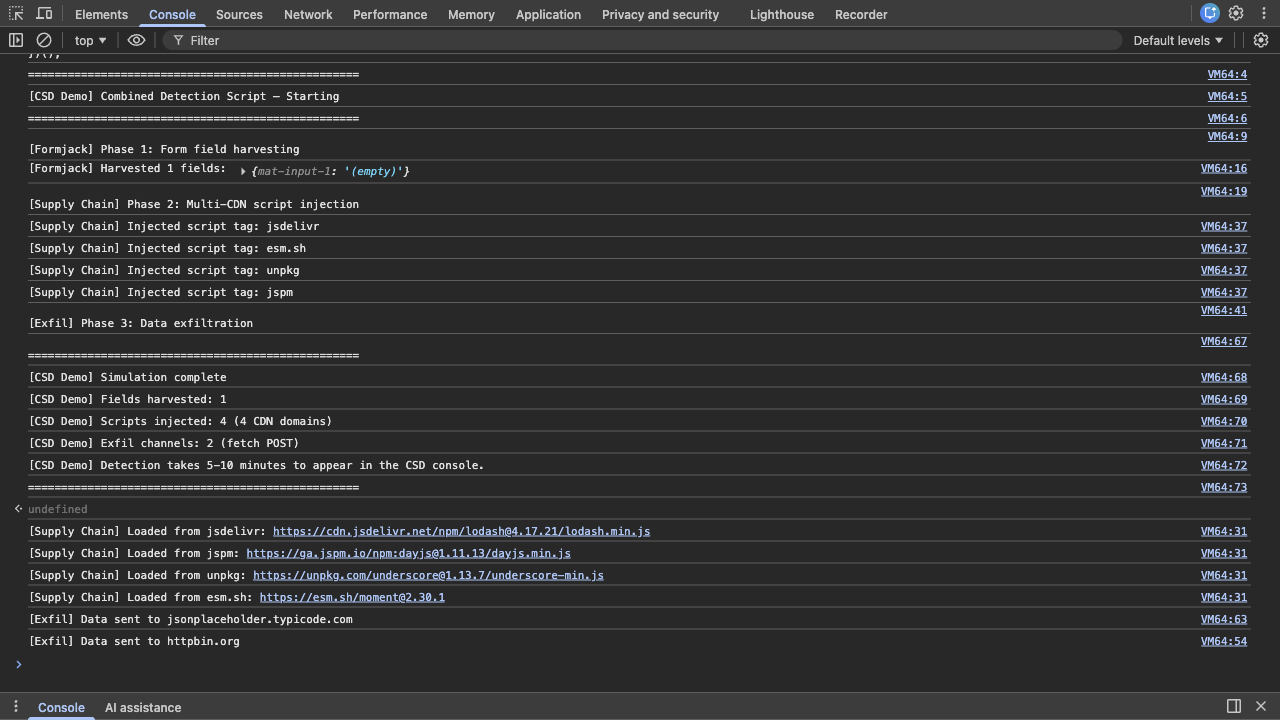
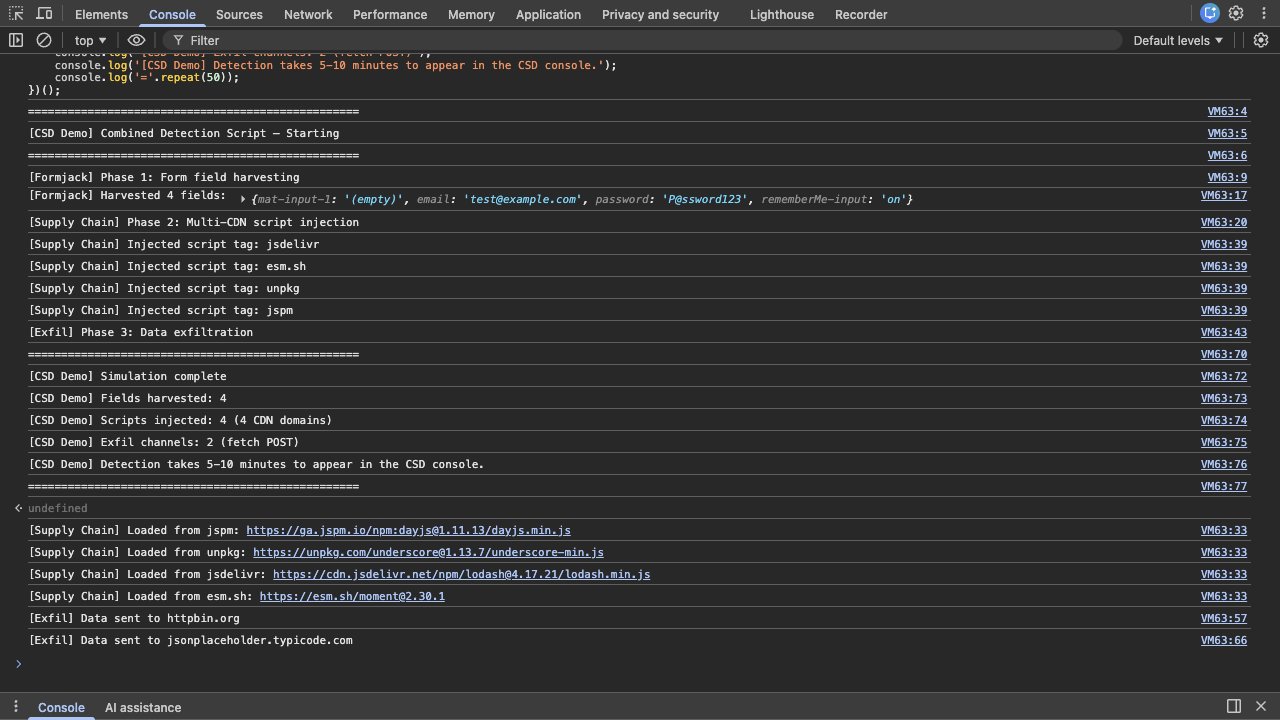
fix: recapture console screenshots, retake dashboard, document dark mode (#223)
* fix: recapture console output screenshots, retake dashboard, and document dark mode conventions

Closes #222

* fix: remove trailing space in code span (MD038)

---------

Changed region(s): [[0.0, 0.0611, 1.0, 0.9167]]

diff --git a/SCREENSHOT-INSTRUCTIONS.md b/SCREENSHOT-INSTRUCTIONS.md
@@ -30,6 +30,22 @@ This project uses a **dual-resolution standard** — both 16:9 aspect ratio, at 
 
 ---
 
+## Dark Mode Conventions
+
+The `<Screenshot>` component supports `light` and `dark` attributes. Whether you provide both depends on the screenshot source:
+
+| Source | Has dark mode? | `<Screenshot>` pattern | Example |
+| --- | --- | --- | --- |
+| **F5 XC Console** (`csd-*` screenshots) | No — XC Console is light-only | `light="..."` (no `dark=`) | `<Screenshot light="/images/csd-dashboard.png" alt="..." />` |
+| **Juice Shop / overlay** (demo app screenshots) | Fixed dark theme — same image for both modes | `light="..." dark="..."` with **identical paths** | `<Screenshot light="/images/demo-app-home.png" dark="/images/demo-app-home.png" alt="..." />` |
+| **Chrome DevTools** (console, network, elements) | Yes — proper light/dark pairs | `light="...-light.png" dark="...-dark.png"` | `<Screenshot light="/images/devtools-console-light.png" dark="/images/devtools-console-dark.png" alt="..." />` |
+
+**Why Juice Shop uses identical paths:** Juice Shop has a fixed dark purple/grey theme that does not change between light and dark browser settings. Providing the same image for both `light` and `dark` prevents the docs theme from showing a blank placeholder when the reader switches to dark mode.
+
+**Why XC Console screenshots omit `dark=`:** The F5 XC Console does not offer a dark mode. There is no dark variant to capture, so `dark=` is intentionally omitted. The `<Screenshot>` component handles this gracefully.
+
+---
+
 ## Architecture: Three Approaches
 
 There are three fundamentally different approaches. Know which one you need:
